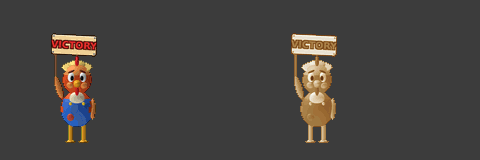
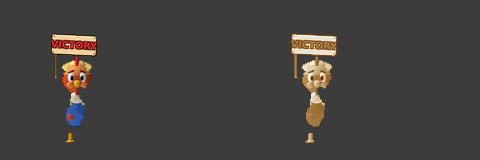
Rusty on the select: behind DK, Diddy and Cranky, not over them
His cut-out (colour and sepia) is cut away wherever those racers stand in
front of Candy Kong's spot in the backdrop, using their own cut-outs'
shapes, so his feet no longer cover DK's arm.

Claude-Session: https://claude.ai/code/session_01S1j7pJRr5op4weh9nnuVXR

diff --git a/updates/art/rusty/build_cutout.py b/updates/art/rusty/build_cutout.py
@@ -15,6 +15,9 @@ writes, next to this script:
                                 its colours are indices 192-223 (sepia_pal.bin, 32 colours)
   cutout.png                    a look at both on the screen
 
+Where DK, Diddy (on his shoulders) and Cranky stand in front of that spot in the backdrop,
+Rusty is cut away (from their own cut-outs' shapes), so he stands behind them.
+
 A piece record (12 bytes): position step y, x (signed, the first from the plot origin),
 attr0 high byte (shape, 256 colours), attr1 high byte (size), tile step (32-byte units),
 width, height, 0, 0.
@@ -97,6 +100,40 @@ def sign(layer, pole_x, pole_y):
     layer.alpha_composite(b, (int((cx - b.width / S / 2) * S), int((cy - b.height / S / 2) * S)))
 
 
+def gang_mask():
+    """Where the racers in front of Candy's spot stand (DK, Diddy on his shoulders, Cranky),
+    from their own select cut-outs (which match their figures in the backdrop exactly) at
+    their slots' plot origins: Rusty is cut away there, so he stands behind them."""
+    syms = {}
+    for line in open(os.path.join(HERE, "..", "..", "..", "maps", "symbols.txt")):
+        p = line.split()
+        if len(p) >= 3:
+            syms.setdefault(p[-1], int(p[0], 16))
+    rom = open(os.path.join(HERE, "..", "..", "..", "baserom.gba"), "rb").read()
+    mask = np.zeros((160, 240), bool)
+    for name, origin in (("clr_kong", (-7, -1)), ("clr_diddy", (-7, -1)), ("clr_cranky", (12, -4))):
+        fr = syms[name + "_frames"] - 0x08000000
+        ch, size, n, info = struct.unpack_from("<IHHI", rom, fr + 4)
+        ch -= 0x08000000
+        p = info - 0x08000000
+        x, y = origin
+        tile = 0
+        for k in range(n):
+            dy, dx, a0, a1, adv, w, h = struct.unpack_from("<hhBBHBB", rom, p + 12 * k)
+            x, y = x + dx, y + dy
+            for ty in range(h // 8):
+                for tx in range(w // 8):
+                    t = ch + (tile + 2 * (ty * (w // 8) + tx)) * 32
+                    for yy in range(8):
+                        for xx in range(8):
+                            if rom[t + yy * 8 + xx]:
+                                sx, sy = x + tx * 8 + xx, y + ty * 8 + yy
+                                if 0 <= sx < 240 and 0 <= sy < 160:
+                                    mask[sy, sx] = True
+            tile += adv
+    return mask
+
+
 def to_screen(layer):
     small = layer.resize((240, 160), Image.LANCZOS)
     a = np.asarray(small).astype(float)
@@ -104,6 +141,7 @@ def to_screen(layer):
     rgb = np.clip(a[..., :3] / np.maximum(a[..., 3:4] / 255.0, 1e-3), 0, 255)
     edge = mask & ~(np.roll(mask, 1, 0) & np.roll(mask, -1, 0) & np.roll(mask, 1, 1) & np.roll(mask, -1, 1))
     rgb[edge] *= 0.5
+    mask &= ~gang_mask()                                    # behind DK, Diddy and Cranky
     return rgb, mask
 
 
